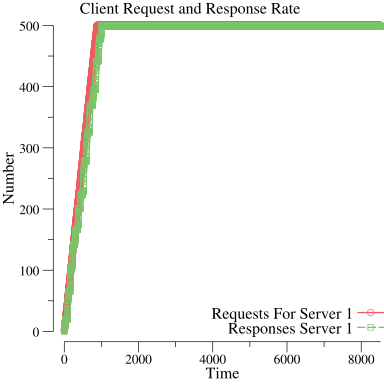
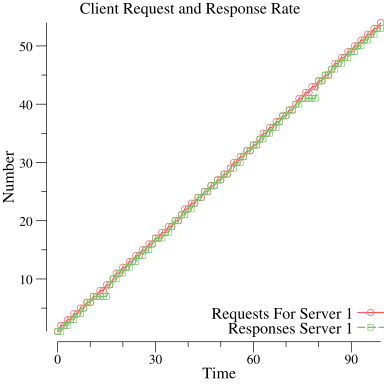
Checking Fix

diff --git a/client.go b/client.go
@@ -79,7 +79,7 @@ func main() {
                         req_sent_server1++
                         go temp("server2", &reply_recv_server2[i], i%lb_id)
                         req_sent_server2++
-                        time.Sleep(3*time.Millisecond)
+                        time.Sleep(10*time.Millisecond)
                 }
             case "2": 
                 //to server1
@@ -99,7 +99,7 @@ func main() {
                 fmt.Println("Not implemented")
         }
 
-        time.Sleep(10*time.Second)
+        time.Sleep(3*time.Second)
        
 	    fmt.Println("Complete");
         p, err := plot.New()
@@ -114,7 +114,7 @@ func main() {
         //timeInterval:=100
         //totalTime:=5000
         //numPeriods := totalTime/timeInterval //(5secs/100ms)
-        numPeriods:= len(req_sent_per_time_server1)
+        numPeriods:= 100//len(req_sent_per_time_server1)
         pts1 := make(plotter.XYs, numPeriods)
         pts2 := make(plotter.XYs, numPeriods)
         for i := range pts1 {
@@ -139,8 +139,8 @@ func main() {
             panic(err)
         }
 
-        fmt.Println("Req to Server1", req_sent_per_time_server1)
-        fmt.Println("Reply from Server1", reply_recv_per_time_server1)
+        //fmt.Println("Req to Server1", req_sent_per_time_server1)
+        //fmt.Println("Reply from Server1", reply_recv_per_time_server1)
 
 }
 
@@ -148,7 +148,7 @@ func counter_poller(number int){
      for{
             reply_server1 := 0
             reply_server2 := 0
-            time.Sleep(1*time.Millisecond)
+            time.Sleep(time.Millisecond*5)
             for i:=0; i<number; i++{
                 if reply_recv_server1[i] != 0{
                     reply_server1++

diff --git a/loadbalancer.go b/loadbalancer.go
@@ -67,6 +67,7 @@ func main() {
 
 	i1:=0
 	i2:=0
+
 	reverseProxy := new(httputil.ReverseProxy)
 
 	reverseProxy.Director = func(req *http.Request) {
@@ -80,8 +81,9 @@ func main() {
 			var target *url.URL
 			target, _  = url.Parse("http://127.0.0.1:"+portS)
 			req.URL.Host = target.Host
-                        req_per_server1[i1]++
-			i1++;
+            req_per_server1[i1]++
+			i1= (i1 +1)%lb.numServers;
+
 		}
 
 		if strings.HasPrefix(req.URL.Path, "/server2/") {
@@ -91,9 +93,11 @@ func main() {
 			var target *url.URL
 			target, _  = url.Parse("http://127.0.0.1:"+portS)
 			req.URL.Host = target.Host
-                        req_per_server2[i2]++
-			i2++;
+            req_per_server2[i2]++
+			i2= (i2 +1)%lb.numServers;
 		}
+
+
 		
 	}
 
